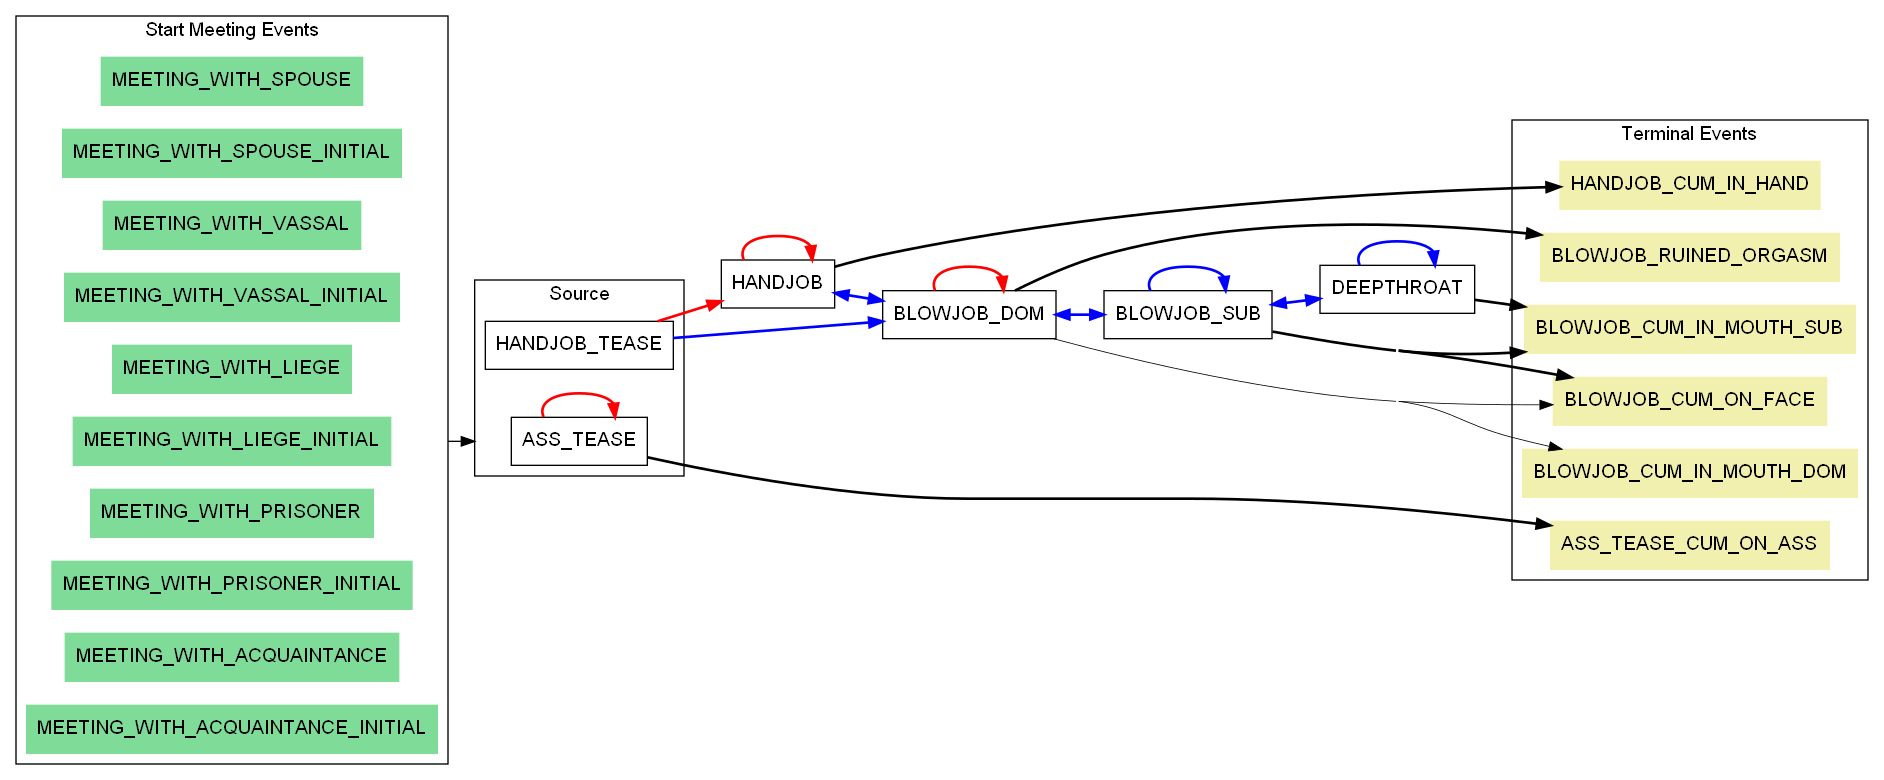
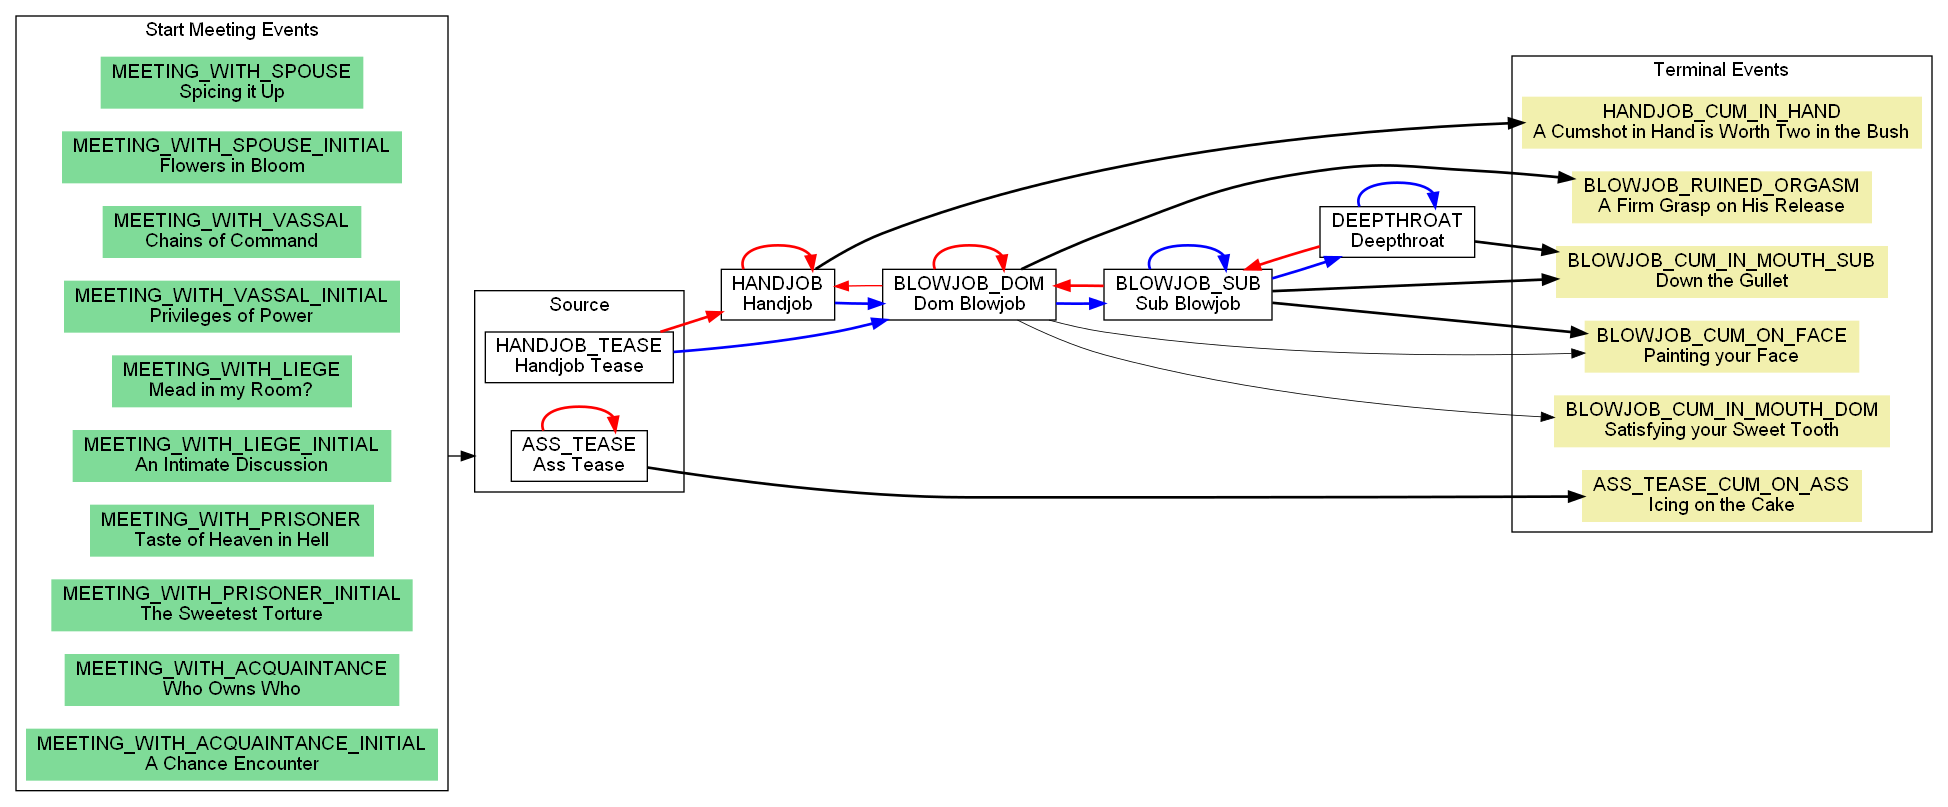
Generate nodes with titles in labels

diff --git a/generate_events.py b/generate_events.py
@@ -894,14 +894,23 @@ def export_strings(event_text, effect_text, event_localization, option_localizat
             f.write(effect_text)
 
 
-def export_dot_graphviz(events, horizontal=True, censored=False):
+def export_dot_graphviz(events, horizontal=True, censored=False, show_titles=True):
+    def get_event_name(event):
+        name = event.id.name
+        if show_titles:
+            name += f"\\n{event.title}"
+        if censored:
+            name = event.id.value
+        return name
+
     gv_filename = "vis.gv"
     with open(gv_filename, "w") as f:
         f.write("digraph G {\n")
         if horizontal:
             f.write("rankdir=LR;\n")
         f.write("fontname=Helvetica;\n")
-        f.write("concentrate=true;\n")
+        # merge edges going back and forth - not good since we need different colors
+        # f.write("concentrate=true;\n")
         f.write("compound=true;\n")
 
         source_sex_events = get_source_sex_events(events)
@@ -922,8 +931,7 @@ def export_dot_graphviz(events, horizontal=True, censored=False):
         # regular sex events
         for event in regular_sex_events:
             f.write(event.id.name)
-            f.write(f"[fontname=Helvetica, shape=box, "
-                    f"label={event.id.value if censored else event.id.name}]")
+            f.write(f"[fontname=Helvetica, shape=box, label=\"{get_event_name(event)}\"]")
             f.write(";\n")
 
         for event in events_with_options:
@@ -950,9 +958,7 @@ def export_dot_graphviz(events, horizontal=True, censored=False):
         # invisible node for others to connect to the cluster as a whole
         for i, event in enumerate(source_sex_events):
             f.write(event.id.name)
-            f.write(
-                f"[fontname=Helvetica, shape=box, "
-                f"label={event.id.value if censored else event.id.name}]")
+            f.write(f"[fontname=Helvetica, shape=box, label=\"{get_event_name(event)}\"]")
             f.write(";\n")
         f.write("}\n")
 
@@ -961,7 +967,7 @@ def export_dot_graphviz(events, horizontal=True, censored=False):
             f.write(event.id.name)
             f.write(
                 f"[fontname=Helvetica, shape=box, style=filled, color=\"#7fdb98\","
-                f"label={event.id.value if censored else event.id.name}]")
+                f"label=\"{get_event_name(event)}\"]")
             f.write(";\n")
             # create visual connection between the start meeting events and the source events
             if i == len(first_events) // 2:
@@ -975,7 +981,7 @@ def export_dot_graphviz(events, horizontal=True, censored=False):
             f.write(event.id.name)
             f.write(
                 f"[fontname=Helvetica, shape=box, style=filled, rank=sink, color=\"#f2f0ae\", "
-                f"label={event.id.value if censored else event.id.name}]")
+                f"label=\"{get_event_name(event)}\"]")
             f.write(";\n")
         f.write("}\n")
         f.write("}\n")
